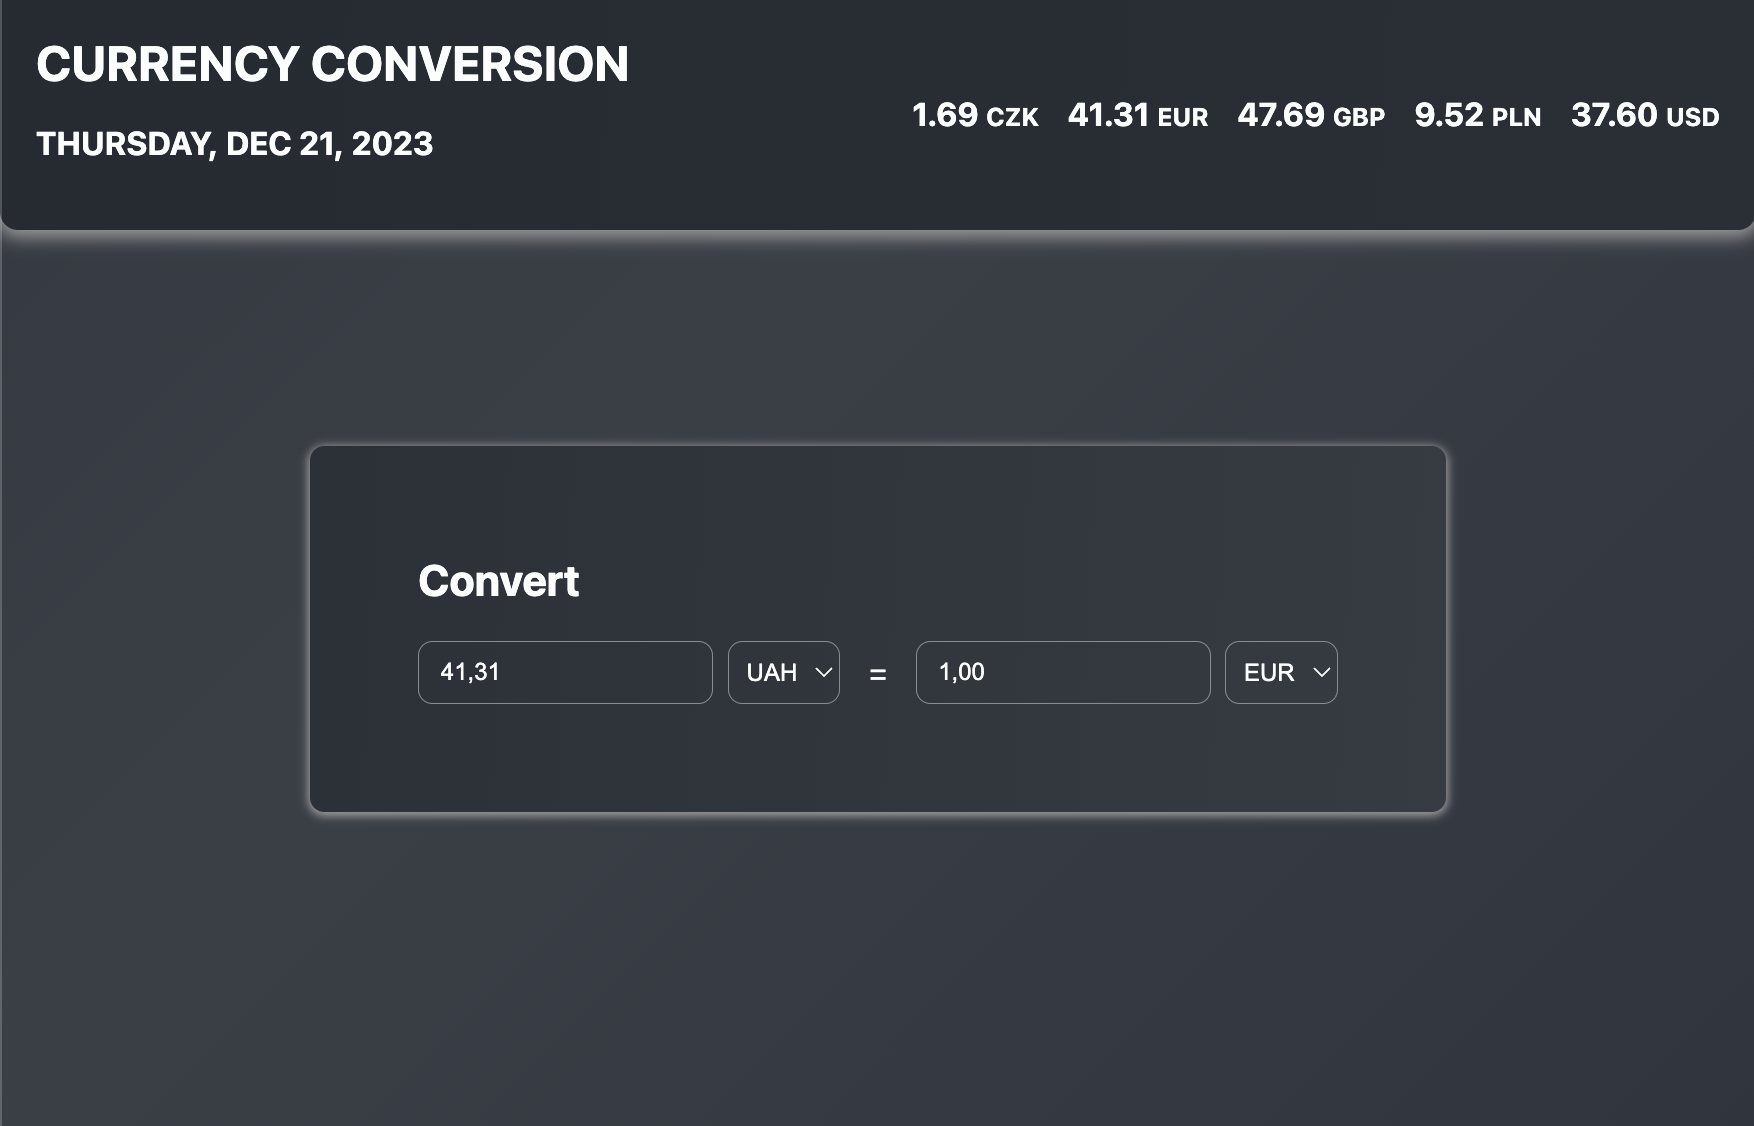
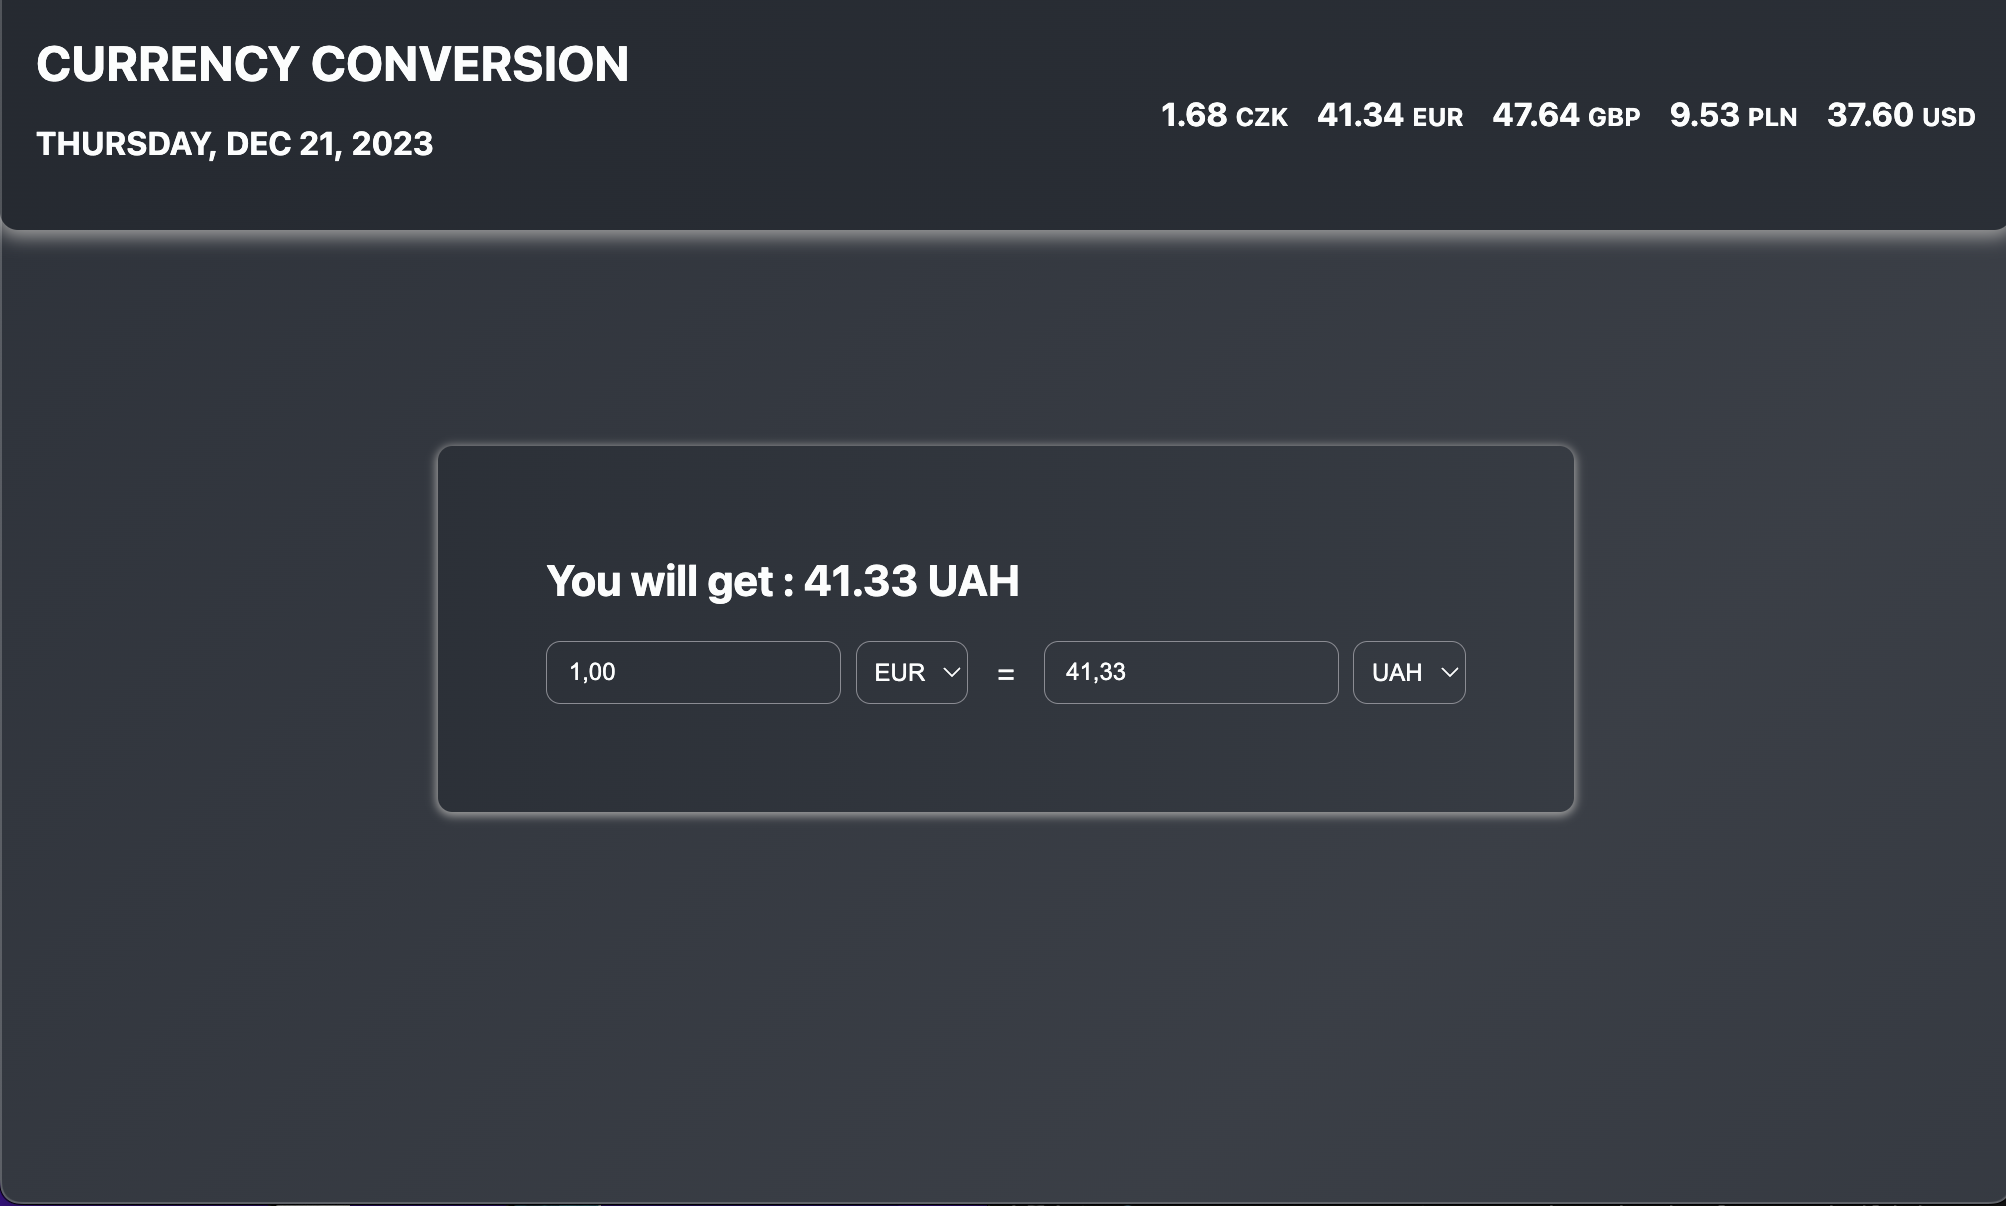
Updated title and img.

diff --git a/src/components/Main/Main.jsx b/src/components/Main/Main.jsx
@@ -54,7 +54,9 @@ function Main({ exchange }) {
   return (
     <Container>
       <FormWrapper>
-        <h2>Convert</h2>
+        <h2>
+          You will get : {toAmount.toFixed(2)} {toCurrency}
+        </h2>
         <Wrapper>
           <CurrencyRow
             currencyOptions={currencyOptions}
